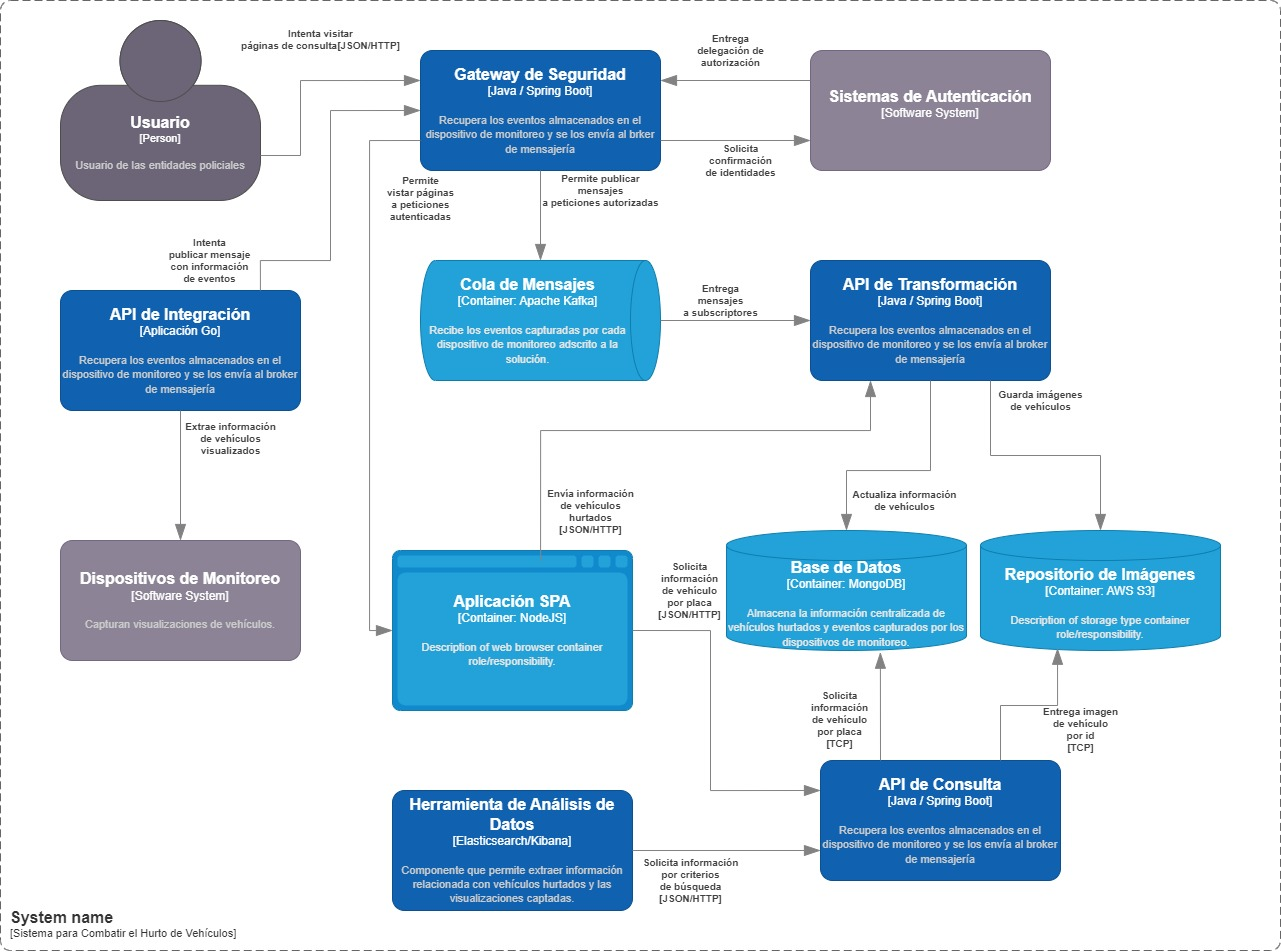
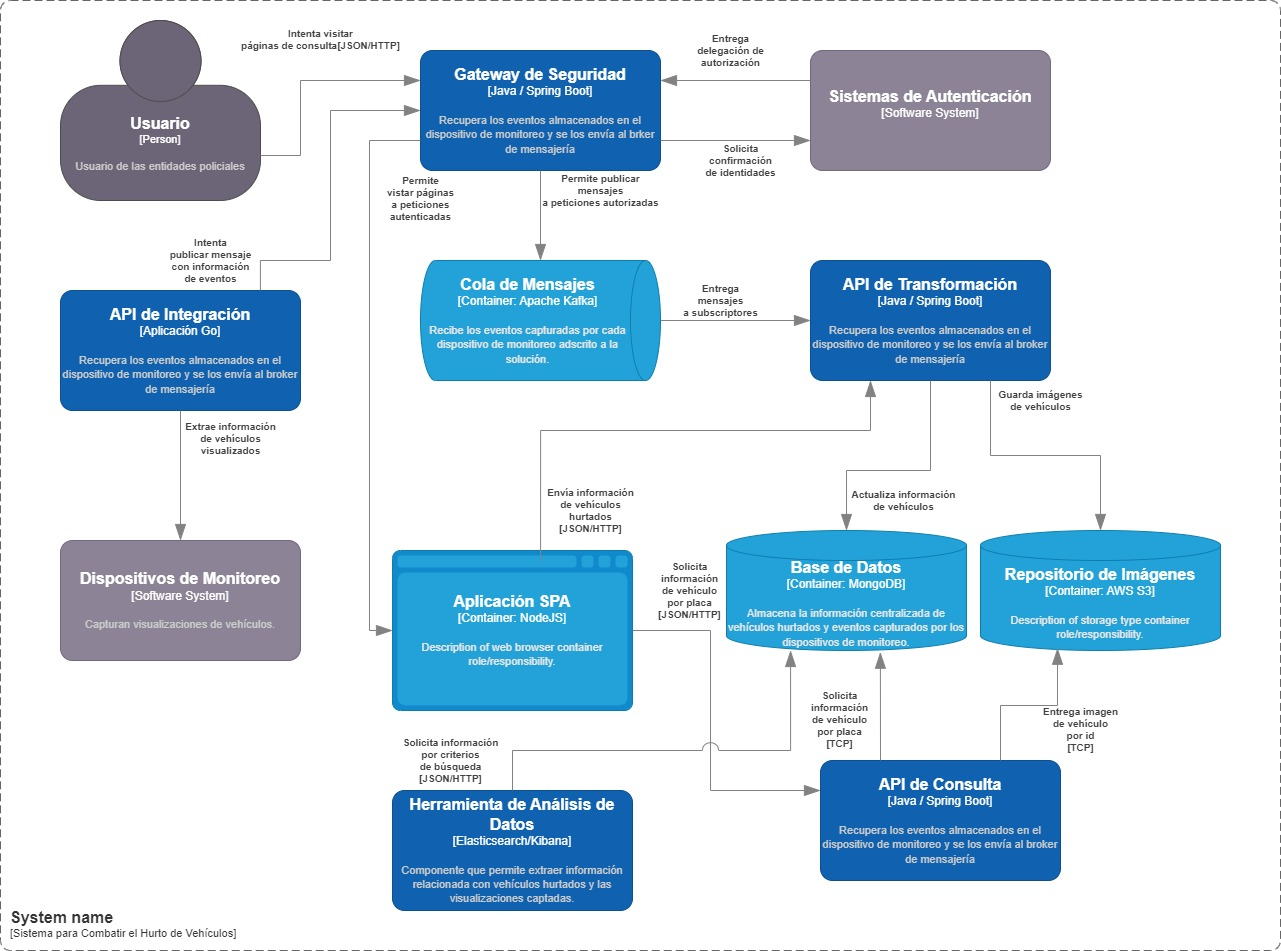
Actualización fin diagramas de secuencia

diff --git a/docs/arch/arquitectura.md b/docs/arch/arquitectura.md
@@ -1,4 +1,4 @@
-# Deficinición de Arquitectura del Sistema para Combatir el Hurto de Vehículos
+# Definición de Arquitectura del Sistema para Combatir el Hurto de Vehículos
 
 [[_TOC_]]
 
@@ -225,7 +225,7 @@ pendiente diagrama y descripcion
     <th>Descripción</th>
     <tr>
       <td>Usuario</td>
-      <td>El Usuario (una entidad policial) envía una solicitud de consulta a la API de Consulta.</td>
+      <td>El Usuario (entidad policial) envía una solicitud de consulta a la API de Consulta.</td>
     </tr>
     <tr>
       <td>Apliación SPA</td>
@@ -255,6 +255,33 @@ pendiente diagrama y descripcion
   
 * Herramienta de Análisis de Datos
 
+  ![Analisis de datos](./imgs/secuencia-analisis-datos.jpg "Analisis de datos")
+
+  <table border=""1>
+    <th>Componente</th>
+    <th>Descripción</th>
+    <tr>
+      <td>Usuario</td>
+      <td>El Usuario (entidad policial) envía una petición de visualización.</td>
+    </tr>
+    <tr>
+      <td>Kibana</td>
+      <td>Kibana recibe la solicitud del usuario y consulta los datos agregados en Elasticsearch.</td>
+    </tr>
+    <tr>
+      <td>Elasticsearch</td>
+      <td>Elasticsearch busca y agrega los datos solicitados en sus índices y devuelve los datos agregados a Kiban</td>
+    </tr>
+    <tr>
+      <td>Logstash</td>
+      <td>Logstash transforma y carga los datos en Elasticsearch.</td>
+    </tr>
+    <tr>
+      <td>Almacenamiento NoSQL</td>
+      <td>envía los datos de las visualizaciones a Logstash de forma periódica.</td>
+    </tr>
+  </table>
+  
 ## 7. Vista de Despliegue
 
 ## 8. Aspectos Transversales
